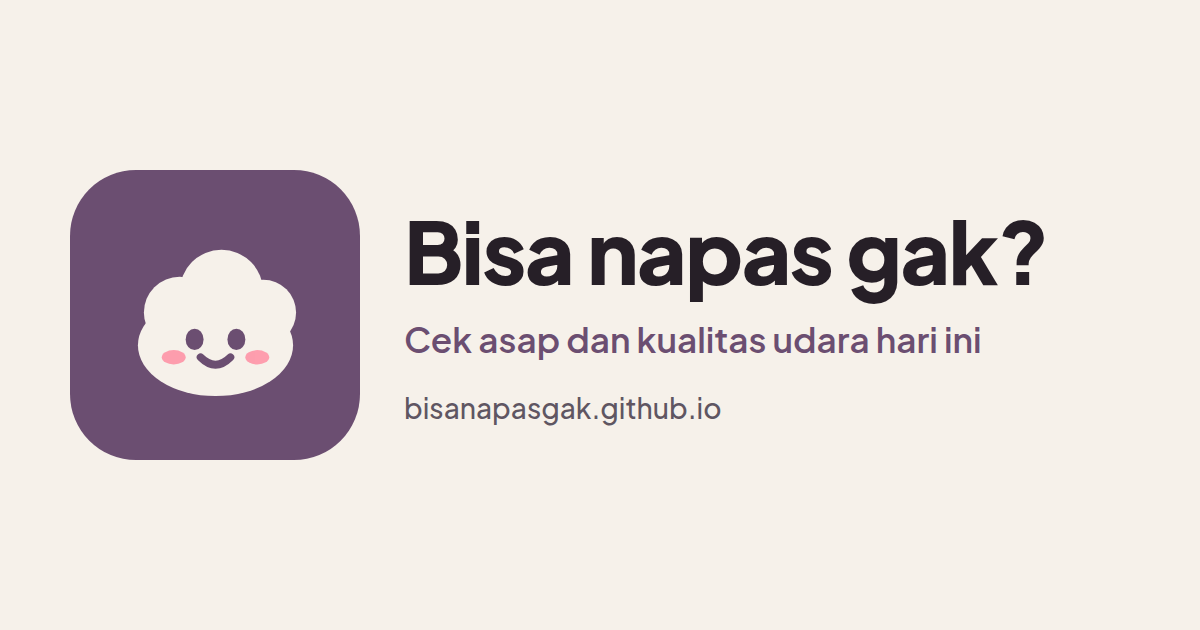
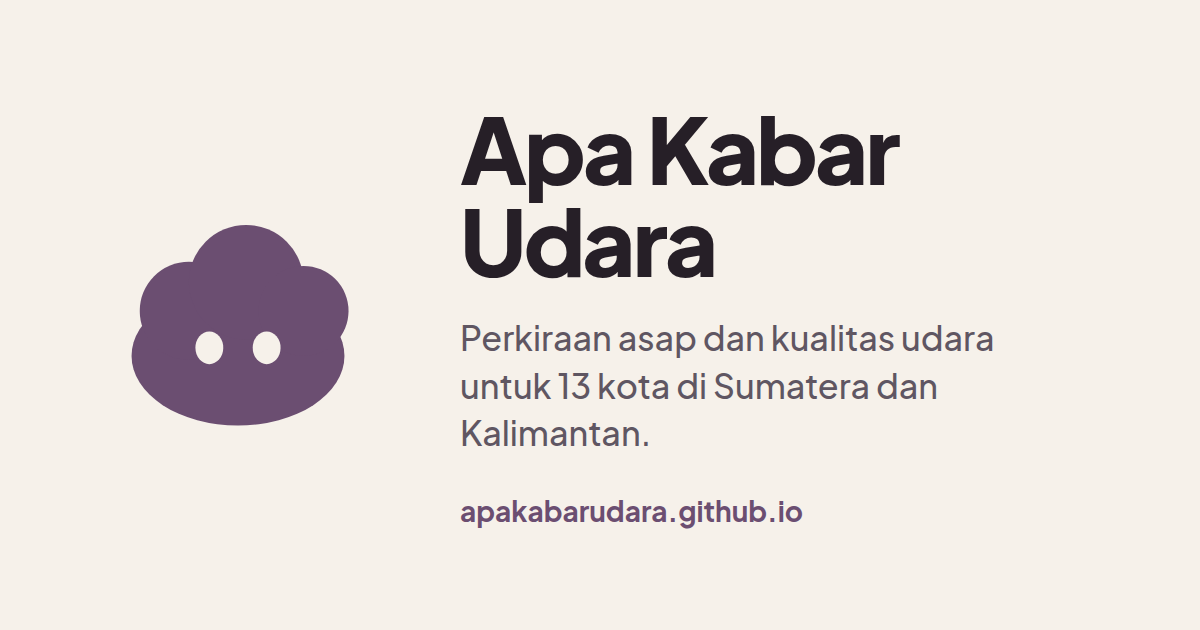
chore: MIT license, contributing section and an OG image with the new name

diff --git a/README.md b/README.md
@@ -103,3 +103,12 @@ Not used:
 3. Settings → Pages → Source: GitHub Actions. On the free plan Pages needs a public repository.
 
 A failed run emails the repo owner, which is the only alert so far.
+
+## Berkontribusi
+
+Apa Kabar Udara adalah proyek sukarela dan kodenya terbuka (MIT, lihat `LICENSE`). Masukan dan kode sama-sama diterima.
+
+- **Masukan dan permintaan kota:** tombol "Kirim masukan" di app.
+- **Kode:** fork, jalankan `npm ci && npm test`, lalu buka pull request. Perubahan teks harus mengikuti aturan di kepala `web/copy.js`: rendah hati, tidak memberi saran kesehatan buatan sendiri, dan tidak memakai klaim seperti "aman" atau "akurat".
+- **Bagian kesehatan:** kutipan panduan di app diambil apa adanya dari ISPU (Kementerian Lingkungan Hidup) dan kalimat rujukan medisnya masih menunggu tinjauan tenaga kesehatan.
+- **Sumber data:** CAMS (Copernicus) lewat Open-Meteo, NASA FIRMS dan GIBS, serta batas level ISPU (Permen LHK P.14/2020).
